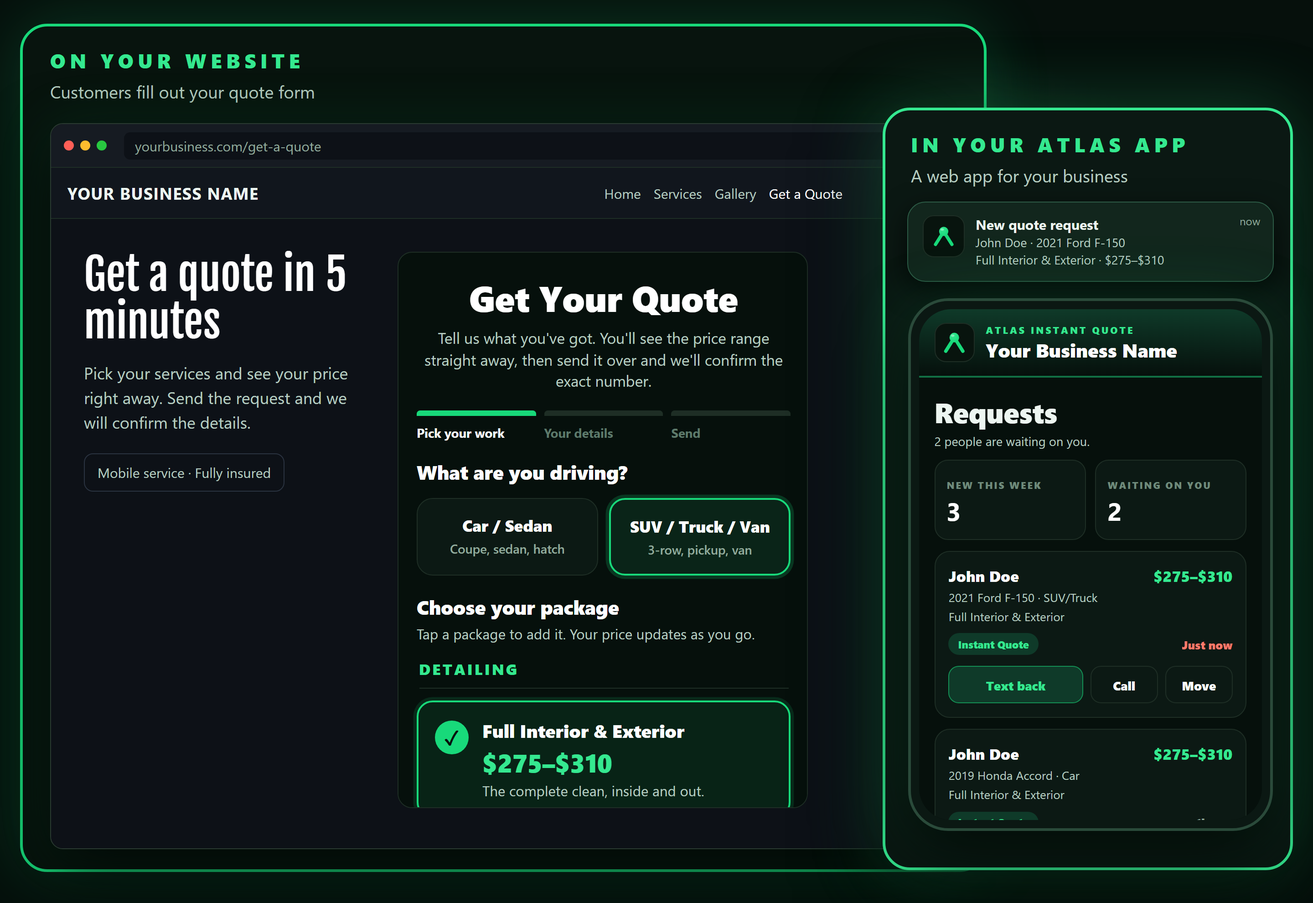
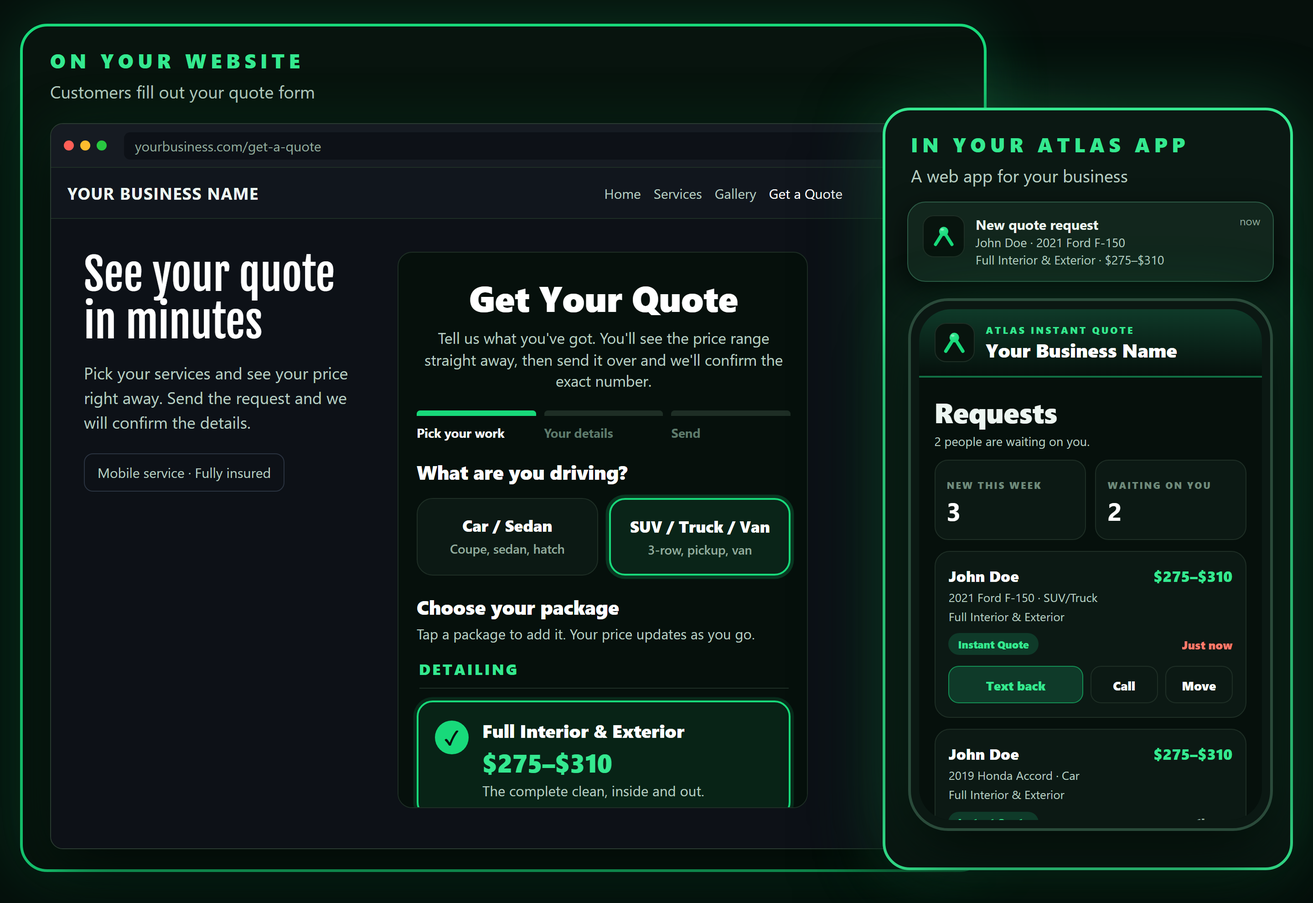
Add vehicle types (boat, RV, motorcycle...) to Instant Quote with their own services and prices
Owners add types in Settings > Instant Quote; each becomes a tile on the quote page with a range, fixed or starting-at price list. Also refresh the sales hero image wording.

Claude-Session: https://claude.ai/code/session_01NYjTYLX6E3zJ2Lgkroj4cA

Changed region(s): [[0.0625, 0.2773, 0.2812, 0.4005]]

diff --git a/public/estimate/app.js b/public/estimate/app.js
@@ -449,7 +449,16 @@ function applyAppIdentity(){
 // ---------------------------------------------------------------- pricing
 // Condition decides where inside the business's own low-high band a job sits.
 // Frequency only ever lifts the top, so the floor can't drop below what they set.
+const typeList = () => Array.isArray(CFG.types) ? CFG.types.filter(t=>t && t.id && t.label) : [];
+const isType = id => !!id && typeList().some(t=>t.id===id);
+const svcsFor = v => CFG.services.filter(s=>(s.type||"") === (isType(v&&v.size) ? v.size : ""));
 function priceFor(svc, v){
+  if (svc.type) {
+    const b = svc.car || [0,null], lo = Number(b[0]) || 0;
+    if (b[1] == null || b[1] === "") return { low:lo, high:lo, open:true };
+    const hi = Number(b[1]) || lo;
+    return { low:Math.min(lo,hi), high:Math.max(lo,hi), open:false };
+  }
   const tier = v.size === "suv" ? "suv" : "car";
   const band = svc[tier] || [0,null];
   const low = Number(band[0]) || 0, rawHigh = band[1];
@@ -476,10 +485,10 @@ function applySpecials(){
 const isSpecialCat = cat => CFG.services.some(s=>s.special && s.cat===cat);
 const untilText = u => { const m=/^(\d{4})-(\d{2})-(\d{2})$/.exec(u||""); if(!m) return "";
   return new Date(+m[1],+m[2]-1,+m[3]).toLocaleDateString("en-US",{month:"short",day:"numeric"}); };
-const categories = () => [...new Set(CFG.services.map(s=>s.cat).filter(Boolean))];
+const categories = v => [...new Set(svcsFor(v).map(s=>s.cat).filter(Boolean))];
 function catTotal(v, cat){
   let low=0, high=0, n=0, open=false;
-  CFG.services.filter(s=>s.cat===cat).forEach(s=>{
+  svcsFor(v).filter(s=>s.cat===cat).forEach(s=>{
     if(!v.services.includes(s.name)) return;
     const p=priceFor(s,v); low+=p.low; high+=p.high; open=open||p.open; n++;
   });
@@ -492,7 +501,7 @@ function addonTotal(v){
 }
 function itemTotal(v){
   let low=0, high=0, open=false;
-  categories().forEach(c=>{ const t=catTotal(v,c); low+=t.low; high+=t.high; open=open||t.open; });
+  categories(v).forEach(c=>{ const t=catTotal(v,c); low+=t.low; high+=t.high; open=open||t.open; });
   const a=addonTotal(v); low+=a.low; high+=a.high;
   return { low, high, open };
 }
@@ -500,7 +509,7 @@ const grandTotal = () => state.items.reduce((a,v)=>{ const t=itemTotal(v);
   return { low:a.low+t.low, high:a.high+t.high, open:a.open||t.open }; }, {low:0,high:0,open:false});
 function rangeText(t){ if(!t.low && !t.high) return "—"; if(t.low===t.high) return money(t.low); return money(t.low)+" – "+money(t.high); }
 function totText(t){ if(!t.low && !t.high) return "—"; if(t.open && t.high<=t.low) return "from "+money(t.low); return rangeText(t)+(t.open?"+":""); }
-const catFrom = (v,cat) => { const r=CFG.services.filter(s=>s.cat===cat).map(s=>priceFor(s,v).low); return r.length?Math.min(...r):0; };
+const catFrom = (v,cat) => { const r=svcsFor(v).filter(s=>s.cat===cat).map(s=>priceFor(s,v).low); return r.length?Math.min(...r):0; };
 
 // ---------------------------------------------------------------- state
 function newItem(open){
@@ -540,7 +549,7 @@ function accordion({ open, name, meta, metaHas, count, body, act, i, val, cls })
 }
 
 function itemBlock(v,i){
-  const multi = state.items.length>1, t = itemTotal(v);
+  const multi = state.items.length>1, t = itemTotal(v), tp = isType(v.size);
   const half = CFG.fields.filter(f=>f.half), rest = CFG.fields.filter(f=>!f.half);
   const fieldInput = f => `<div class="field"><label class="f" for="${f.k}${v.id}">${esc(f.label)}</label>
     <input type="text" id="${f.k}${v.id}" ${f.numeric?'inputmode="numeric"':''}${f.max?` maxlength="${f.max}"`:''}
@@ -549,15 +558,15 @@ function itemBlock(v,i){
   const details = `
     ${half.length?`<div class="row">${half.map(fieldInput).join("")}</div>`:""}
     ${rest.map(fieldInput).join("")}
-    ${CFG.conditions.length?`<div class="field"><label class="f">${esc(CFG.conditionQ)}</label><div class="chips">${CFG.conditions.map(c=>`
+    ${CFG.conditions.length && !tp?`<div class="field"><label class="f">${esc(CFG.conditionQ)}</label><div class="chips">${CFG.conditions.map(c=>`
       <button class="chip" aria-pressed="${v.condition===c.id}" data-act="cond" data-i="${i}" data-v="${esc(c.id)}">${esc(c.label)}${c.hint?`<small>${esc(c.hint)}</small>`:""}</button>`).join("")}</div></div>`:""}
-    ${CFG.frequencies.length?`<div class="field" style="margin-bottom:0"><label class="f">${esc(CFG.frequencyQ)}</label><div class="chips">${CFG.frequencies.map(f=>`
+    ${CFG.frequencies.length && !tp?`<div class="field" style="margin-bottom:0"><label class="f">${esc(CFG.frequencyQ)}</label><div class="chips">${CFG.frequencies.map(f=>`
       <button class="chip" aria-pressed="${v.frequency===f.id}" data-act="freq" data-i="${i}" data-v="${esc(f.id)}">${esc(f.label)}</button>`).join("")}</div></div>`:""}
     ${multi?`<div style="text-align:right;margin-top:14px"><button class="remove" data-act="rmitem" data-i="${i}">Remove this ${esc(TRADES[CFG.trade]?.item||"item")}</button></div>`:""}`;
 
-  const cats = categories().map(cat=>{
+  const cats = categories(v).map(cat=>{
     const ct = catTotal(v,cat), open = v.openCats.includes(cat);
-    const body = CFG.services.filter(s=>s.cat===cat).map(s=>{
+    const body = svcsFor(v).filter(s=>s.cat===cat).map(s=>{
       const p=priceFor(s,v), on=v.services.includes(s.name);
       const incl=(Array.isArray(s.includes)?s.includes:[]).map(x=>String(x).trim()).filter(Boolean);
       const brief=s.desc || (incl.length?incl.slice(0,3).join(" · ")+(incl.length>3?" + "+(incl.length-3)+" more":""):"");
@@ -567,7 +576,7 @@ function itemBlock(v,i){
       return `<button class="svc${(s.popular||s.special)?" hasflag":""}" aria-pressed="${on}" data-act="svc" data-i="${i}" data-v="${esc(s.name)}">
         ${flag}${pic}
         <span class="pkgtop"><span class="box">${CHECK}</span>
-        <span class="pkgmain"><span class="svcname">${esc(s.name)}</span><span class="svcprice">${p.open?"<small>from</small>"+money(p.low):(p.low===p.high?money(p.low):money(p.low)+"–"+money(p.high))}</span>${brief?`<span class="svcdesc">${esc(brief)}</span>`:""}${incl.length?`<span class="svcmore" data-act="info" data-i="${i}" data-v="${esc(s.name)}">${info?"Hide details":"What's included"} <span class="svcchev${info?" up":""}">▾</span></span>`:""}${info?`<span class="svcincl">${incl.map(x=>`<span class="svcli">${esc(x)}</span>`).join("")}<span class="svcwhy">Price depends on your vehicle's size and condition. We confirm the final price after reviewing your request.</span></span>`:""}</span></span></button>`;
+        <span class="pkgmain"><span class="svcname">${esc(s.name)}</span><span class="svcprice">${p.open?"<small>from</small>"+money(p.low):(p.low===p.high?money(p.low):money(p.low)+"–"+money(p.high))}</span>${brief?`<span class="svcdesc">${esc(brief)}</span>`:""}${incl.length?`<span class="svcmore" data-act="info" data-i="${i}" data-v="${esc(s.name)}">${info?"Hide details":"What's included"} <span class="svcchev${info?" up":""}">▾</span></span>`:""}${info?`<span class="svcincl">${incl.map(x=>`<span class="svcli">${esc(x)}</span>`).join("")}<span class="svcwhy">${tp?"":"Price depends on your vehicle's size and condition. "}We confirm the final price after reviewing your request.</span></span>`:""}</span></span></button>`;
     }).join("");
     return accordion({ open, name:cat, count:ct.n||0,
       meta: ct.n ? totText(ct) : "from "+money(catFrom(v,cat)),
@@ -584,13 +593,18 @@ function itemBlock(v,i){
   }).join("");
 
   const veh = CFG.trade==="detailing";
-  const sizePick = CFG.sizes.length>1 ? `<div class="qhead" style="margin-top:${i?26:6}px">${veh?"What are you driving?":"Pick your size"}${multi?` <span style="color:var(--muted);font-weight:700;font-size:15px">· ${esc(itemLabel(v,i))}</span>`:""}</div>
+  const types = typeList(), coveredKinds = types.map(t=>t.label.trim().toLowerCase());
+  const sizePick = (CFG.sizes.length>1 || types.length) ? `<div class="qhead" style="margin-top:${i?26:6}px">${veh?"What are you driving?":"Pick your size"}${multi?` <span style="color:var(--muted);font-weight:700;font-size:15px">· ${esc(itemLabel(v,i))}</span>`:""}</div>
     <div class="vpick">${CFG.sizes.map((s,n)=>`
       <button class="vcard plain" aria-pressed="${v.size===s.id && !state.other}" data-act="size" data-i="${i}" data-v="${esc(s.id)}">
         <span><b>${esc(s.label)}</b>${s.hint?`<small>${esc(s.hint)}</small>`:""}</span></button>`).join("")}
-      ${veh && i===0 ? `<button class="vcard plain" style="grid-column:1/-1" aria-pressed="${state.other}" data-act="other"><span><b>Something Else</b><small>Motorcycle, Boat, RV</small></span></button>` : ""}</div>` : "";
+      ${types.map(t=>`
+      <button class="vcard plain" aria-pressed="${v.size===t.id && !state.other}" data-act="size" data-i="${i}" data-v="${esc(t.id)}">
+        <span><b>${esc(t.label)}</b>${t.hint?`<small>${esc(t.hint)}</small>`:""}</span></button>`).join("")}
+      ${veh && i===0 ? `<button class="vcard plain" style="grid-column:1/-1" aria-pressed="${state.other}" data-act="other"><span><b>Something Else</b><small>${esc(["Motorcycle","Boat","RV"].filter(k=>!coveredKinds.includes(k.toLowerCase())).join(", ")||"Anything not listed")}</small></span></button>` : ""}</div>` : "";
   const OTHER_KINDS = [["Motorcycle","Example: touring motorcycle, full detail and wax."],["Boat","Example: 24 ft boat, full detail and ceramic coating."],["RV","Example: 30 ft RV, exterior wash and wax."],["Something Else","Example: tell us what you have and what you need."]];
-  const kindPick = `<div class="vpick" style="margin-top:14px">${OTHER_KINDS.map(([k])=>`<button class="vcard plain" aria-pressed="${state.otherKind===k}" data-act="kind" data-v="${k}"><span><b>${k}</b></span></button>`).join("")}</div>`;
+  const otherKinds = OTHER_KINDS.filter(([k])=>!coveredKinds.includes(k.toLowerCase()));
+  const kindPick = `<div class="vpick" style="margin-top:14px">${otherKinds.map(([k])=>`<button class="vcard plain" aria-pressed="${state.otherKind===k}" data-act="kind" data-v="${k}"><span><b>${k}</b></span></button>`).join("")}</div>`;
   const kindPh = (OTHER_KINDS.find(x=>x[0]===state.otherKind)||[])[1] || "";
   const otherBox = state.otherKind ? `<div class="acc on" style="margin-top:14px;padding:18px"><div class="field" style="margin-bottom:0"><label class="f" for="copen">${state.otherKind==="Something Else"?"Tell us what you have and what you need":`What do you need done on your ${state.otherKind==="RV"?"RV":state.otherKind.toLowerCase()}?`}</label>
       <textarea id="copen" placeholder="${esc(kindPh)}" data-open="1">${esc(state.openReq)}</textarea>
@@ -604,7 +618,7 @@ function itemBlock(v,i){
     <div class="qhead">Choose your package</div>
     <p class="qsub">Tap a package to add it. Your price updates as you go.</p>
     ${cats}
-    ${CFG.addons.length?accordion({ open:v.openCats.includes("__addons"), name:"Add-Ons", count:at.n||0,
+    ${CFG.addons.length && !tp?accordion({ open:v.openCats.includes("__addons"), name:"Add-Ons", count:at.n||0,
       meta: at.n ? "+"+money(at.low) : "from "+money(Math.min(...CFG.addons.map(a=>Number(a.price)||0))),
       metaHas:!!at.n, body:addonBody, act:"togglecat", i, val:"__addons" }):""}`;
 }
@@ -635,7 +649,7 @@ function briefOf(s){
 function pickedSummary(){
   if (state.other) return "";
   return state.items.map((v,i)=>{
-    const rows=[...v.services.map(n=>{const s=CFG.services.find(x=>x.name===n); if(!s)return"";
+    const rows=[...v.services.map(n=>{const s=svcsFor(v).find(x=>x.name===n); if(!s)return"";
         const p=priceFor(s,v), incl=(Array.isArray(s.includes)?s.includes:[]).map(x=>String(x).trim()).filter(Boolean);
         return `<div class="pk"><div class="pkh"><span>${esc(n)}</span><b>${p.open?"from "+money(p.low):(p.low===p.high?money(p.low):money(p.low)+"–"+money(p.high))}</b></div>${s.desc?`<div class="pkd">${esc(s.desc)}</div>`:""}${incl.length?`<ul class="pkl">${incl.map(x=>`<li>${esc(x)}</li>`).join("")}</ul>`:""}</div>`;}),
       ...v.addons.map(n=>{const a=CFG.addons.find(x=>x.name===n); if(!a)return"";
@@ -652,7 +666,7 @@ function stepsBar(picked){
 
 function formScreen(){
   const t = grandTotal(), picked = anyPicked(), c = CFG.copy;
-  const cond = CFG.conditions.find(x=>x.id===state.items[0]?.condition);
+  const cond = isType(state.items[0]?.size) ? null : CFG.conditions.find(x=>x.id===state.items[0]?.condition);
   return `
   <h1>${esc(c.headline)}</h1>
   ${c.sub?`<p class="lede">${esc(c.sub)}</p>`:""}
@@ -956,7 +970,9 @@ document.addEventListener("click", e=>{
   if(act==="togglecat"){ toggle(v.openCats,val); render(); return; }
   if(act==="togglecontact"){ state.contactOpen=!state.contactOpen; render(); return; }
   if(act==="toggleopen"){ state.openOpen=!state.openOpen; render(); return; }
-  if(act==="size"){ state.other=false; v.size=val; render(); return; }
+  if(act==="size"){ state.other=false;
+    if ((isType(v.size)?v.size:"") !== (isType(val)?val:"")) { v.services=[]; v.addons=[]; v.openCats=[]; }
+    v.size=val; render(); return; }
   if(act==="other"){ state.other=true; render(); return; }
   if(act==="kind"){ state.otherKind=val; render(); const el=document.getElementById("copen"); if(el) el.focus({preventScroll:true}); return; }
   if(act==="cond"){ v.condition=val; render(); return; }

diff --git a/src/AtlasSettings.tsx b/src/AtlasSettings.tsx
@@ -1972,6 +1972,28 @@ function InstantQuotePanel({ solo = false }: { solo?: boolean } = {}) {
     band[pos] = v;
     setService(i, { [size]: band });
   }
+  const pmOf = (s) => s.pm || (s.car?.[1] == null ? "from" : s.car[0] === s.car[1] ? "fixed" : "range");
+  function setMode(i, m) {
+    const lo = cfg.services[i].car?.[0] ?? null;
+    const hi = cfg.services[i].car?.[1] ?? null;
+    setService(i, { pm: m, car: m === "range" ? [lo, hi === lo ? null : hi] : m === "fixed" ? [lo, lo] : [lo, null] });
+  }
+  function setTypedPrice(i, pos, v) {
+    const m = pmOf(cfg.services[i]);
+    if (m === "range") return setBand(i, "car", pos, v);
+    setService(i, { car: m === "fixed" ? [v, v] : [v, null] });
+  }
+  function setType(id, patch) { touch({ ...cfg, types: (cfg.types || []).map((t) => (t.id === id ? { ...t, ...patch } : t)) }); }
+  function addType(label) {
+    const base = "t_" + (label.toLowerCase().replace(/[^a-z0-9]+/g, "") || "type");
+    let id = base, n = 1;
+    while ((cfg.types || []).some((t) => t.id === id)) id = base + ++n;
+    touch({ ...cfg, types: [...(cfg.types || []), { id, label, hint: "" }], services: [...cfg.services, { name: "", cat: "Services", desc: "", car: [null, null], suv: [null, null], type: id, pm: "range" }] });
+  }
+  function removeType(id) {
+    if (!window.confirm("Remove this vehicle type and all of its services?")) return;
+    touch({ ...cfg, types: (cfg.types || []).filter((t) => t.id !== id), services: cfg.services.filter((sv) => sv.type !== id) });
+  }
   function setAddon(i, patch) { touch({ ...cfg, addons: cfg.addons.map((a, idx) => (idx === i ? { ...a, ...patch } : a)) }); }
 
   async function startSetup() {
@@ -2021,8 +2043,14 @@ function InstantQuotePanel({ solo = false }: { solo?: boolean } = {}) {
     setError("");
     const clean = slug.trim().toLowerCase();
     if (!IQ_SLUG_RE.test(clean)) { setError("Web address can only use letters, numbers and dashes (for example: my-detailing)."); return; }
-    const names = cfg.services.map((s) => (s.name || "").trim().toLowerCase());
-    if (names.some((n) => !n)) { setError("Every service needs a name."); return; }
+    const names = cfg.services.map((s) => `${s.type || ""}|${(s.name || "").trim().toLowerCase()}`);
+    if (cfg.services.some((s) => !(s.name || "").trim())) { setError("Every service needs a name."); return; }
+    const types = cfg.types || [];
+    const tl = types.map((t) => (t.label || "").trim().toLowerCase());
+    if (tl.some((l) => !l)) { setError("Give each vehicle type a name (example: Boat)."); return; }
+    if (new Set(tl).size !== tl.length) { setError("Two vehicle types have the same name. Make each one different."); return; }
+    if (types.some((t) => !cfg.services.some((s) => s.type === t.id))) { setError("Each vehicle type needs at least one service."); return; }
+    if (cfg.services.some((s) => s.type && pmOf(s) === "range" && (s.car?.[1] == null || Number(s.car[1]) < Number(s.car[0])))) { setError("Price range: add a high price that is at least the low price, or choose Fixed price or Starting at."); return; }
     if (new Set(names).size !== names.length) { setError("Two services have the same name. Make each one different."); return; }
     if (cfg.services.some((s) => s.car?.[0] == null)) { setError("Every service needs at least a starting price for a car."); return; }
     if (enabled && !cfg.services.length) { setError("Add at least one service before turning the page on."); return; }
@@ -2033,11 +2061,13 @@ function InstantQuotePanel({ solo = false }: { solo?: boolean } = {}) {
     const fixed = {
       ...cfg,
       services: cfg.services.map((s) => ({
-        name: s.name.trim(), cat: (s.cat || "").trim(), desc: s.desc || "",
+        name: s.name.trim(), cat: (s.cat || "").trim() || (s.type ? "Services" : ""), desc: s.desc || "",
         ...(s.special ? { special: true, until: s.until || "" } : {}),
+        ...(s.type ? { type: s.type, pm: pmOf(s) } : {}),
         car: [Number(s.car[0]), s.car[1] == null ? null : Number(s.car[1])],
         suv: [s.suv?.[0] == null ? Number(s.car[0]) : Number(s.suv[0]), s.suv?.[1] == null ? null : Number(s.suv[1])],
       })),
+      types: types.map((t) => ({ id: t.id, label: t.label.trim(), hint: (t.hint || "").trim() })),
       addons: cfg.addons.filter((a) => (a.name || "").trim()).map((a) => ({ name: a.name.trim(), price: Number(a.price) || 0, desc: (a.desc || "").trim() })),
     };
     setSaving(true);
@@ -2145,7 +2175,7 @@ function InstantQuotePanel({ solo = false }: { solo?: boolean } = {}) {
       <div style={{ fontSize: 11.5, fontWeight: 700, letterSpacing: "0.05em", textTransform: "uppercase", color: P.textMuted, margin: "0 0 10px" }}>Services and price ranges</div>
       <p style={{ fontSize: 12, color: P.textSecondary, margin: "0 0 12px", lineHeight: 1.5 }}>Fill in a low and a high price. Cleaner vehicles quote near the low end, dirtier ones near the high end. Leave the high price blank and customers see "from $X".</p>
       <div style={{ display: "flex", flexDirection: "column", gap: 10 }}>
-        {cfg.services.map((s, i) => s.special ? null : (
+        {cfg.services.map((s, i) => s.special || s.type ? null : (
           <Card key={i} style={{ padding: 14 }}>
             <div style={{ display: "flex", gap: 8, marginBottom: 10 }}>
               <input value={s.name} onChange={(e) => setService(i, { name: e.target.value })} placeholder="Service name" style={{ ...inputStyle, fontWeight: 700, flex: 2, minWidth: 0 }} />
@@ -2162,6 +2192,49 @@ function InstantQuotePanel({ solo = false }: { solo?: boolean } = {}) {
           </Card>
         ))}
         <button onClick={() => touch({ ...cfg, services: [...cfg.services, { name: "", cat: "", desc: "", car: [null, null], suv: [null, null] }] })} style={ghostBtn}><Plus size={12} /> Add service</button>
+      </div>
+
+      <div style={{ fontSize: 11.5, fontWeight: 700, letterSpacing: "0.05em", textTransform: "uppercase", color: P.textMuted, margin: "24px 0 10px" }}>Other vehicle types (boat, RV, motorcycle)</div>
+      <p style={{ fontSize: 12, color: P.textSecondary, margin: "0 0 12px", lineHeight: 1.5 }}>Do boats, RVs or motorcycles too? Add them here with their own services and prices. Each one becomes its own button on your quote page. Pick a price style for each service: a range, one fixed price, or "starting at".</p>
+      <div style={{ display: "flex", flexDirection: "column", gap: 14 }}>
+        {(cfg.types || []).map((t) => (
+          <Card key={t.id} style={{ padding: 14, borderColor: P.accent }}>
+            <div style={{ display: "flex", gap: 8, marginBottom: 10 }}>
+              <input value={t.label} onChange={(e) => setType(t.id, { label: e.target.value })} placeholder="Vehicle type (example: Boat)" style={{ ...inputStyle, fontWeight: 700, flex: 1, minWidth: 0 }} />
+              <input value={t.hint || ""} onChange={(e) => setType(t.id, { hint: e.target.value })} placeholder="Short note (example: Up to 40 ft)" style={{ ...inputStyle, flex: 1, minWidth: 0, color: P.textSecondary }} />
+              <button onClick={() => removeType(t.id)} title="Remove this vehicle type" style={{ background: "transparent", border: "none", color: P.textMuted, cursor: "pointer" }}><Trash2 size={15} /></button>
+            </div>
+            <div style={{ display: "flex", flexDirection: "column", gap: 10 }}>
+              {cfg.services.map((s, i) => s.type !== t.id ? null : (
+                <div key={i} style={{ border: `1px solid ${P.border}`, borderRadius: 10, padding: 12 }}>
+                  <div style={{ display: "flex", gap: 8, marginBottom: 10 }}>
+                    <input value={s.name} onChange={(e) => setService(i, { name: e.target.value })} placeholder="Service name" style={{ ...inputStyle, fontWeight: 700, flex: 2, minWidth: 0 }} />
+                    <input value={s.cat || ""} onChange={(e) => setService(i, { cat: e.target.value })} placeholder="Group" style={{ ...inputStyle, flex: 1, minWidth: 0, color: P.textSecondary }} />
+                    <button onClick={() => touch({ ...cfg, services: cfg.services.filter((_, idx) => idx !== i) })} title="Remove" style={{ background: "transparent", border: "none", color: P.textMuted, cursor: "pointer" }}><Trash2 size={15} /></button>
+                  </div>
+                  <div style={{ display: "flex", gap: 6, marginBottom: 10, flexWrap: "wrap" }}>
+                    {[["range", "Price range"], ["fixed", "Fixed price"], ["from", "Starting at"]].map(([m, l]) => (
+                      <button key={m} onClick={() => setMode(i, m)} style={{ fontSize: 12, fontWeight: 600, padding: "6px 12px", borderRadius: 20, border: `1px solid ${pmOf(s) === m ? P.accent : P.border}`, background: pmOf(s) === m ? P.accentSoft : "transparent", color: pmOf(s) === m ? P.accent : P.textSecondary, cursor: "pointer" }}>{l}</button>
+                    ))}
+                  </div>
+                  <div style={{ display: "grid", gridTemplateColumns: "repeat(auto-fit, minmax(110px, 1fr))", gap: 8 }}>
+                    <div><div style={{ fontSize: 10.5, fontWeight: 600, color: P.textMuted, marginBottom: 4 }}>{pmOf(s) === "range" ? "Low price" : pmOf(s) === "fixed" ? "Price" : "Starting at"}</div><IqPrice value={s.car?.[0]} onChange={(v) => setTypedPrice(i, 0, v)} /></div>
+                    {pmOf(s) === "range" && <div><div style={{ fontSize: 10.5, fontWeight: 600, color: P.textMuted, marginBottom: 4 }}>High price</div><IqPrice value={s.car?.[1]} onChange={(v) => setTypedPrice(i, 1, v)} /></div>}
+                  </div>
+                  <textarea value={s.desc || ""} onChange={(e) => setService(i, { desc: e.target.value })} placeholder="Short description customers see" rows={2} style={{ ...inputStyle, resize: "vertical", fontFamily: "inherit", marginTop: 10 }} />
+                </div>
+              ))}
+              <button onClick={() => touch({ ...cfg, services: [...cfg.services, { name: "", cat: "Services", desc: "", car: [null, null], suv: [null, null], type: t.id, pm: "range" }] })} style={ghostBtn}><Plus size={12} /> Add {t.label || "vehicle"} service</button>
+            </div>
+          </Card>
+        ))}
+        <div style={{ display: "flex", gap: 8, flexWrap: "wrap", alignItems: "center" }}>
+          <span style={{ fontSize: 12, color: P.textMuted }}>Add a vehicle type:</span>
+          {["Motorcycle", "Boat", "RV"].filter((k) => !(cfg.types || []).some((t) => (t.label || "").trim().toLowerCase() === k.toLowerCase())).map((k) => (
+            <button key={k} onClick={() => addType(k)} style={ghostBtn}><Plus size={12} /> {k}</button>
+          ))}
+          <button onClick={() => addType("")} style={ghostBtn}><Plus size={12} /> Other</button>
+        </div>
       </div>
 
       <div style={{ fontSize: 11.5, fontWeight: 700, letterSpacing: "0.05em", textTransform: "uppercase", color: P.textMuted, margin: "24px 0 10px" }}>Current specials</div>

diff --git a/supabase/functions/estimate-request/index.ts b/supabase/functions/estimate-request/index.ts
@@ -56,6 +56,14 @@ const ownerRange = (low: number, high: number) =>
 // Same maths as the page (app.js priceFor): condition picks the spot inside the business's own
 // low-high band; the timing question only ever lifts the top; a blank high means "from $X"; equal low and high is a flat price.
 function priceFor(svc: any, sizeId: string, cond: any, freq: any) {
+  // Vehicle-type services (boat, RV, motorcycle...) show the owner's price exactly as written.
+  if (svc.type) {
+    const b = svc.car || [0, null];
+    const lo = Number(b[0]) || 0;
+    if (b[1] == null || b[1] === "") return { low: lo, high: lo, open: true };
+    const hi = Number(b[1]) || lo;
+    return { low: Math.min(lo, hi), high: Math.max(lo, hi), open: false };
+  }
   const band = (sizeId === "suv" ? svc.suv : svc.car) || [0, null];
   const low = Number(band[0]) || 0;
   const rawHigh = band[1];
@@ -226,6 +234,7 @@ Deno.serve(async (req) => {
     const conditions: any[] = Array.isArray(cfg.conditions) ? cfg.conditions : [];
     const frequencies: any[] = Array.isArray(cfg.frequencies) ? cfg.frequencies : [];
     const sizes: any[] = Array.isArray(cfg.sizes) ? cfg.sizes : [];
+    const types: any[] = Array.isArray(cfg.types) ? cfg.types.filter((t: any) => t && t.id && t.label) : [];
     const fields: any[] = Array.isArray(cfg.fields) ? cfg.fields : [];
 
     const itemsIn = Array.isArray(body?.items) ? body.items.slice(0, MAX_ITEMS) : [];
@@ -236,13 +245,15 @@ Deno.serve(async (req) => {
     const itemsOut: any[] = [];
 
     for (const raw of itemsIn) {
-      const sizeId = sizes.find((s) => s.id === raw?.size)?.id ?? sizes[0]?.id ?? "car";
+      const typeHit = types.find((t) => t.id === raw?.size);
+      const typeId: string = typeHit ? typeHit.id : "";
+      const sizeId = typeHit ? typeHit.id : (sizes.find((s) => s.id === raw?.size)?.id ?? sizes[0]?.id ?? "car");
       const cond = conditions.find((c) => c.id === raw?.condition) ?? conditions[1] ?? conditions[0];
       const freq = frequencies.find((f) => f.id === raw?.frequency) ?? frequencies[1] ?? frequencies[0];
 
       const picked = (Array.isArray(raw?.services) ? raw.services : []).slice(0, MAX_PICKS)
-        .map((n: string) => services.find((s) => s.name === n)).filter(Boolean);
-      const pickedAddons = (Array.isArray(raw?.addons) ? raw.addons : []).slice(0, MAX_PICKS)
+        .map((n: string) => services.find((s) => s.name === n && (s.type || "") === typeId)).filter(Boolean);
+      const pickedAddons = typeId ? [] : (Array.isArray(raw?.addons) ? raw.addons : []).slice(0, MAX_PICKS)
         .map((n: string) => addons.find((a) => a.name === n)).filter(Boolean);
       if (!picked.length && !pickedAddons.length) continue;
 
@@ -251,7 +262,8 @@ Deno.serve(async (req) => {
         const v = clean(raw?.vals?.[f.k], 120);
         if (v) vals[f.label] = v;
       }
-      const label = Object.values(vals).join(" ") || "Job";
+      const baseLabel = Object.values(vals).join(" ") || "Job";
+      const label = typeHit ? (baseLabel === "Job" ? typeHit.label : `${typeHit.label} - ${baseLabel}`) : baseLabel;
 
       let iLow = 0;
       let iHigh = 0;
@@ -273,9 +285,9 @@ Deno.serve(async (req) => {
       itemsOut.push({
         label,
         details: vals,
-        size: sizes.find((s) => s.id === sizeId)?.label ?? sizeId,
-        condition: cond?.label ?? null,
-        timing: freq?.label ?? null,
+        size: typeHit ? typeHit.label : (sizes.find((s) => s.id === sizeId)?.label ?? sizeId),
+        condition: typeId ? null : (cond?.label ?? null),
+        timing: typeId ? null : (freq?.label ?? null),
         services: picked.map((s: any) => s.name),
         addons: pickedAddons.map((a: any) => a.name),
         low: iLow,

diff --git a/ATLAS_FEATURES.md b/ATLAS_FEATURES.md
@@ -9,6 +9,7 @@ Status: LIVE, BUILT (not yet switched on), PLANNED.
 - LIVE - Fixed-price services: a service with no range shows one exact price (no range, no "+"). Services with a range show the range.
 - LIVE - Customer's year / make / model captured on every request.
 - LIVE - "Something Else" tile (Motorcycle, Boat, RV) at the top of the quote page: tap it, pick Motorcycle / Boat / RV / Something Else, then describe the job. It arrives as a lead with no price, with the same phone alert and text.
+- LIVE - Vehicle types (Boat, RV, Motorcycle, anything): in Settings > Instant Quote the owner adds a type with its own services, descriptions and prices (a range, one fixed price, or "starting at"). Each type becomes its own tile on the quote page, with its own price list; boat-only or RV-only shops can run the whole page this way. Typed jobs skip the condition and timing questions and the car add-ons. "Something Else" stays as the catch-all for anything not covered. The server prices typed jobs from the owner's saved prices.
 - LIVE - Price groups (like Mobile Maintenance) start closed on the quote page; the customer taps to open.
 - LIVE - Current Specials on the quote page (off by default; the public accordion and the editor list both start closed): owner turns on "Show specials on my quote page" in Settings > Instant Quote, adds specials (name, description, price as a range or one flat price, optional end date). They show first under a "Current Specials" bar (title editable), same look as the other services with a "Special - ends <date>" tag, and disappear by themselves after the end date. Flat price (same low and high) is exact on the page and on the lead.
 - LIVE - Standalone Atlas Instant Quote (one-time purchase, quote page only): customer signs up at https://atlasapp-two.vercel.app/?signup=quote, enters business name (phone optional, shown on their page), edits the example prices, presses Copy website code, pastes it into their site. Edits later happen in the same screen and the site updates itself. Requests arrive as a phone notification (free) plus a Requests list; customers do NOT use Atlas's text number. The full CRM stays an optional upgrade.
@@ -44,7 +45,6 @@ Come back to these after the design look and style is settled.
 - Settings screen for the "popular" flag and service photos on the quote page.
 - Test Team Logins end to end with a real second login (invite, sign up, land in shop at right level).
 - Data-level lockdown: Manager/Staff are blocked in the app screens today. Later, also lock invoices/quotes at the database so a tech-savvy staffer can't read them through the API.
-- "Add a vehicle type" in Settings > Instant Quote: owner adds Boat, Motorcycle, RV and so on, each with its own services and low-high prices. Each becomes its own tile on the quote page; "Something Else" stays as the catch-all. Also makes the page work for other trades and shops (proposed by Andre; build after the design look and style is settled).
 - Messenger auto-reply set-up check in Meta Business Suite.
 - Shopify $39 Done-For-You Setup offer.
 - Delete the "John Doe TEST" lead after Andre confirms the new text format.
